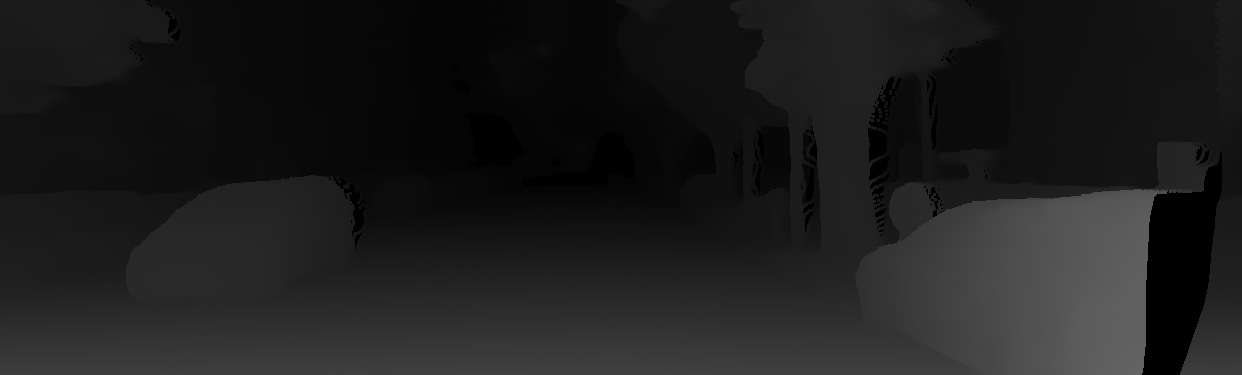
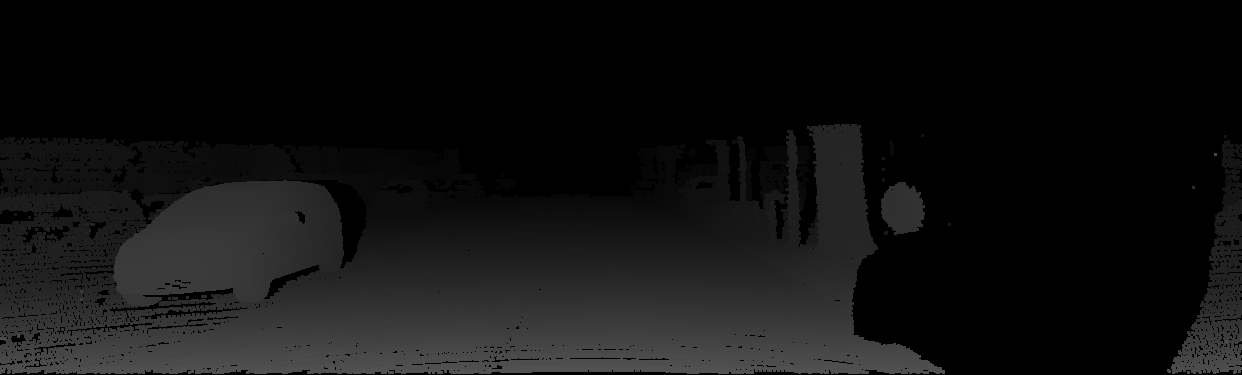
add kitti sample

diff --git a/points_vis.py b/points_vis.py
@@ -50,10 +50,10 @@ def prepare_kitti_dataset(left_img, right_img, disp_gt=None, flow_gt=None, vis_p
 #        depth_mask = disp_gt > 0
         depth_mask = depth < 50.
         depth_mask = depth_mask.reshape(-1)
-#        depth = torch.clamp(depth, 0, 80.0)     # set distance threshold within 80m
+#        depth = torch.clamp(depth, 0, 80.0)        # set distance threshold within 80m
     meshgrid = generate_meshgrid(disp).view(-1, 2)  # [H*W, 2]
     pts = torch.ones((H*W, 6))
-    pts[:, 0] = (meshgrid[:, 0] - W / 2) / focal_length 
+    pts[:, 0] = (meshgrid[:, 0] - W / 2) / focal_length
     pts[:, 1] = (meshgrid[:, 1] - H / 2) / focal_length
     pts[:, :3] = pts[:, :3] * depth 
     pts[:, 3:] = left_img.view(-1, 3)
@@ -71,6 +71,7 @@ def kitti_project_depth(src_depth):
     pts = torch.cat((pts, src_depth), dim=-1)
 
     # convert to target view
+    
     pts[:, 0] = pts[:, 0] - 0.54
     right_coords = pts[:, :-1] / pts[:, -1:] * 721.277
     right_coords = right_coords.long()
@@ -86,8 +87,26 @@ def kitti_project_depth(src_depth):
     import cv2
     erode_kernel = np.ones((3, 3), np.uint8)
     projected_depth = cv2.dilate(projected_depth, erode_kernel, iterations=1)
-    # import imageio
-    # imageio.imwrite('projected_depth.png', projected_depth)
+    import imageio
+    imageio.imwrite('projected_depth.png', projected_depth)
+
+def kitti_sample_world_coords(left_image, left_disp):
+    N, C, H, W = left_image.shape
+    left_depth = (0.54 * 721.277) / left_disp
+    left_depth = left_depth.view(-1, 1)
+    # convert camera coords to world coords
+    camera_coords = generate_meshgrid(disp).view(-1, 2)
+    
+    # compute right world coods
+    world_coords_xy = camera_coords / 721.277 * left_depth
+    world_coords_xy[:, 0] = (world_coords_xy[:, 0])
+    world_coords = torch.cat((world_coords_xy, left_depth), dim=-1)
+    right_sample_coords = world_coords[:, :-1] / world_coords[:, -1:] * 721.277
+
+    right_sample_coords = right_sample_coords.view(1, H, W, -1).permute(0, 3, 1, 2)
+    right_image_sampled = normalize_coords(right_sample_coords)
+    warped_img = F.grid_sample(left_image, right_image_sampled, mode='bilinear', padding_mode='border')
+    TensorToPILImage(warped_img[0], saving_path='warped_right.png', img_show=True)
 
 def get_patches(rays_all, patch_size, num_patches, disp):
     '''
@@ -109,7 +128,7 @@ def get_patches(rays_all, patch_size, num_patches, disp):
     disp_mask = disp_mask.reshape(-1)
     
     meshgrid = np.stack(np.meshgrid(np.arange(H), np.arange(W), indexing='ij'), axis=-1).reshape(-1, 2)
-
+    
     valid_grid = meshgrid[disp_mask]
     
     grid_neighbors = valid_grid[:, None, :] + np.stack(
@@ -189,6 +208,8 @@ if __name__ == '__main__':
         
         # generate projected depth
         # kitti_project_depth(disp_tensor[:, None])
+        kitti_sample_world_coords(left_tensor[None], disp_tensor)
+        # prepare_kitti_dataset(left_tensor,right_tensor, disp_tensor, )
         # generate patches
         # left_tensor = left_tensor.permute(1, 2, 0).unsqueeze(dim=-2)
         # selected_patches, selected_disp = get_patches(left_tensor, 16, 4, disp=disp_tensor)

diff --git a/README.md b/README.md
@@ -4,3 +4,5 @@ A simplified visualization tool box for disparity, depth, point clouds, and flow
 ## Requirements
 1. open3d
 2. opencv
+
+## Run 
